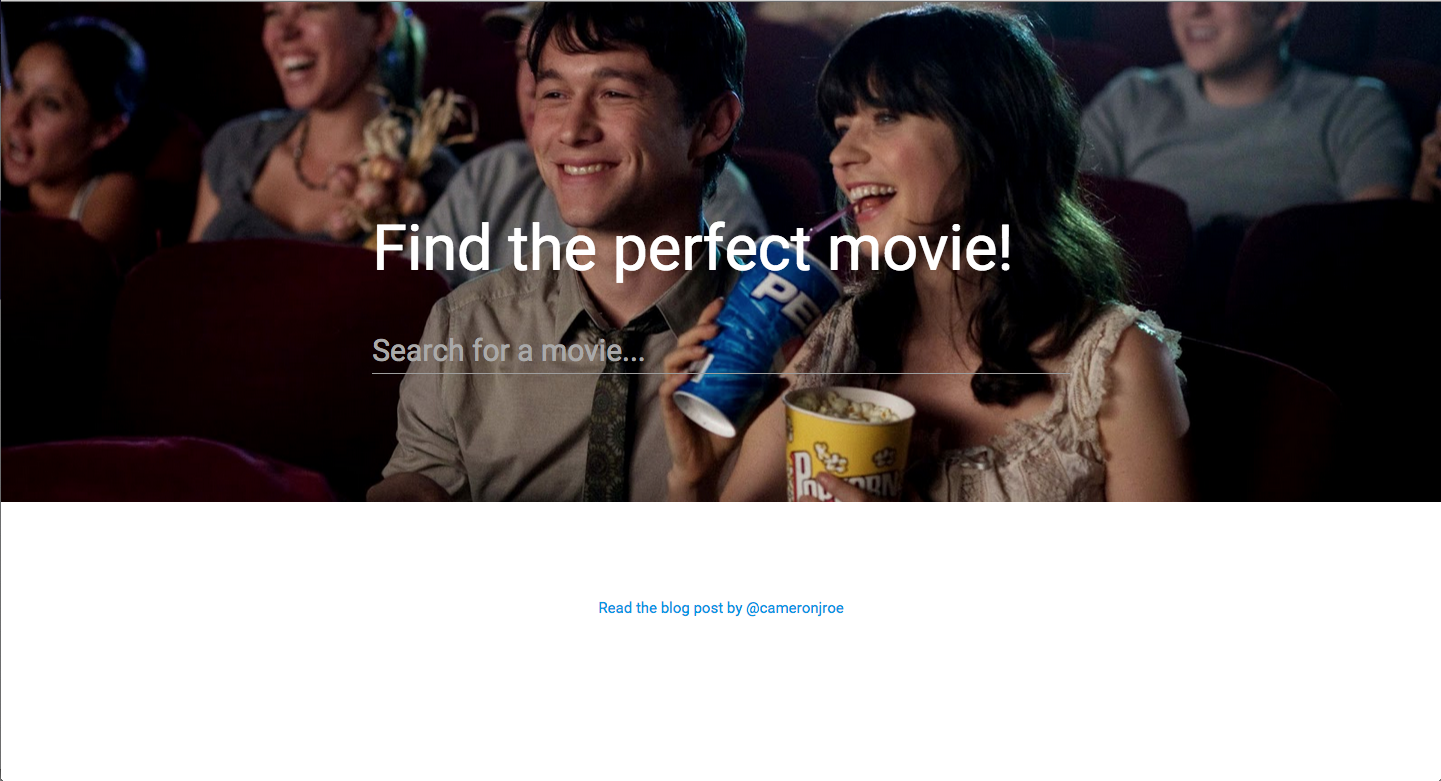
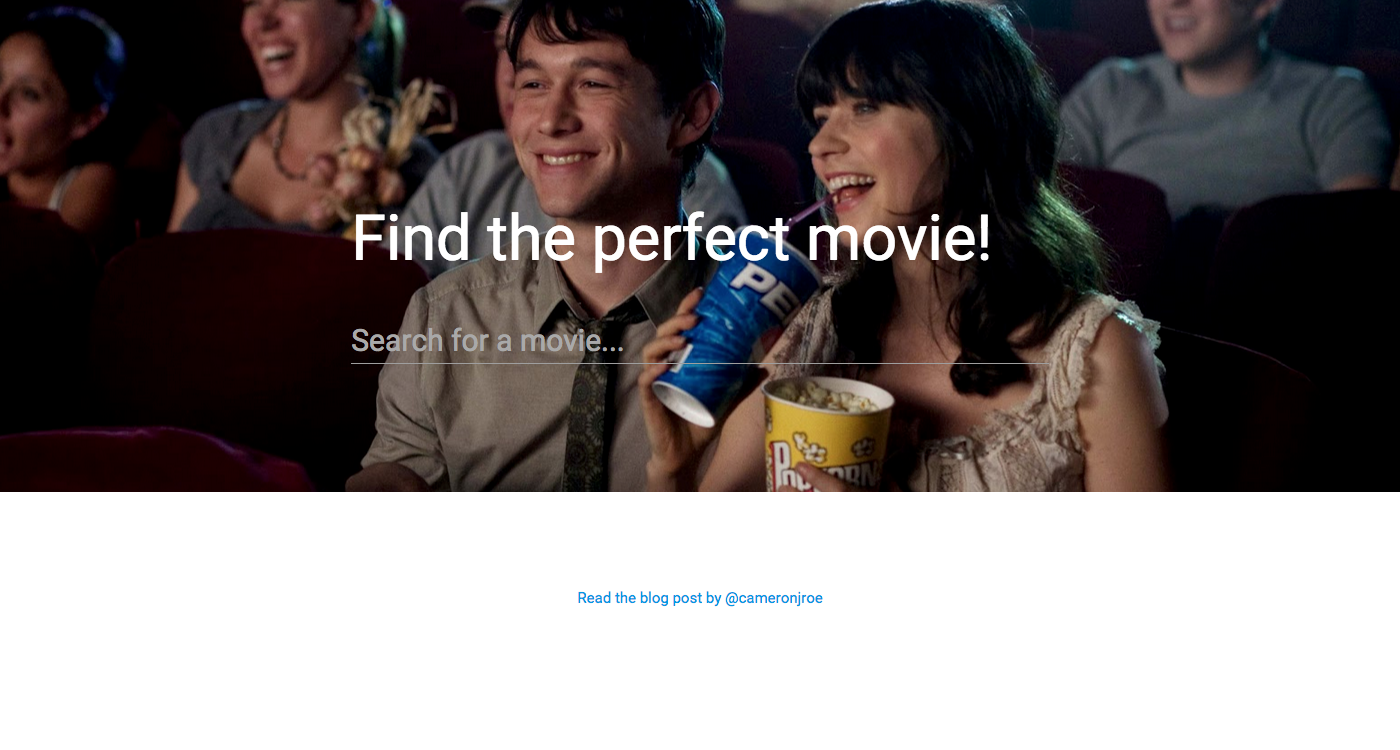
update image

diff --git a/README.md b/README.md
@@ -1,3 +1,3 @@
 # Angular Movie Search Demo
 
-[](/app/images/demo.png)
+![](/app/images/demo.png)
